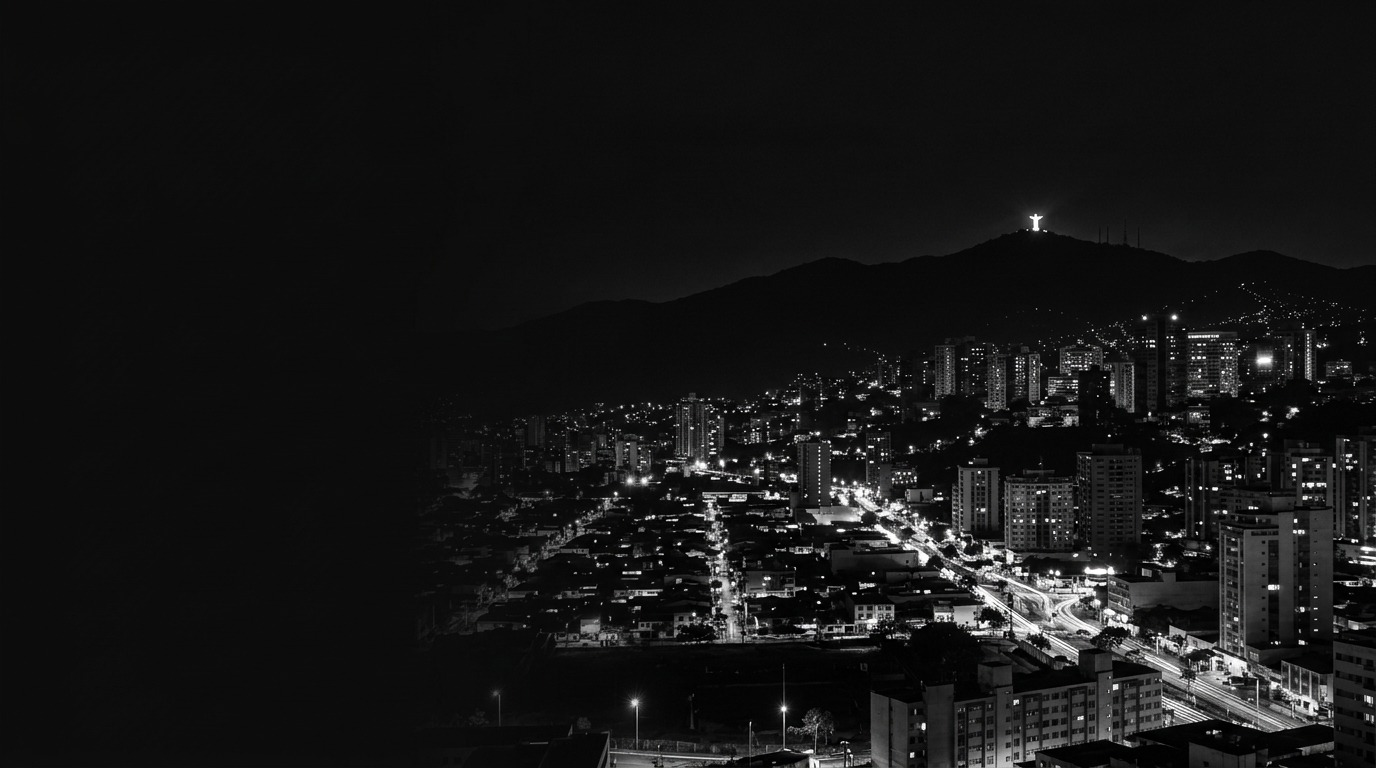
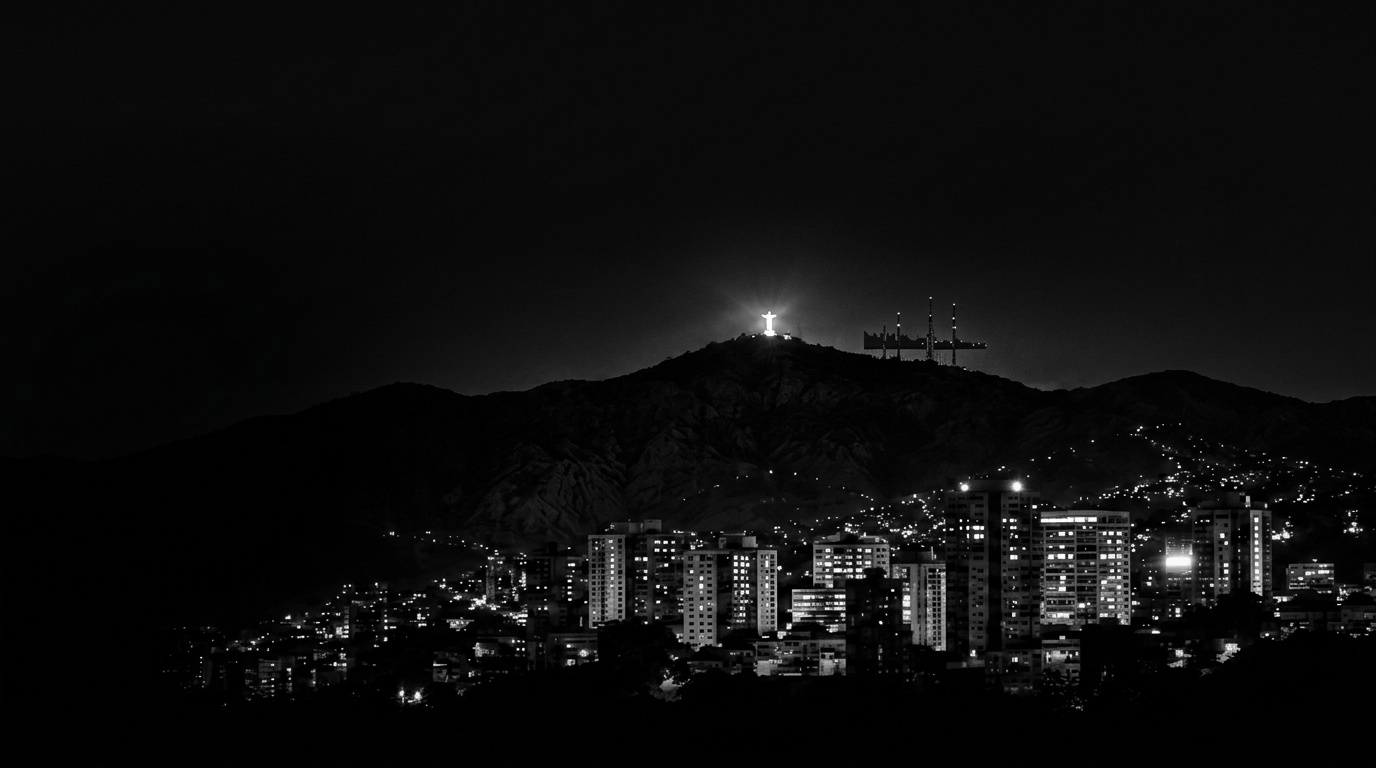
style(footer): expand layout to max-w-[1760px] with reduced side margins and exact Cristo Rey composition

diff --git a/src/components/layout/Footer.tsx b/src/components/layout/Footer.tsx
@@ -53,15 +53,16 @@ export const Footer: React.FC = () => {
       data-theme="dark"
       className="relative bg-[#111111] text-white w-full overflow-hidden select-none"
     >
-      <div className="max-w-[1400px] w-full mx-auto px-6 sm:px-12 lg:px-16 pt-16 sm:pt-20 lg:pt-24 pb-8 flex flex-col justify-between relative z-10">
+      {/* Expanded Container with reduced side margins to give monumental breathing room */}
+      <div className="w-full max-w-[1760px] mx-auto px-6 sm:px-10 lg:px-14 xl:px-16 2xl:px-20 pt-16 sm:pt-20 lg:pt-24 pb-8 flex flex-col justify-between relative z-10">
         
         {/* ========================================================
             PART 1: HERO ZONE (Split: Left Copy + Right Night City)
             ======================================================== */}
-        <div className="grid grid-cols-1 lg:grid-cols-12 gap-10 lg:gap-6 items-center pb-14 sm:pb-18 lg:pb-20">
+        <div className="flex flex-col lg:flex-row items-start lg:items-center justify-between gap-10 lg:gap-8 pb-14 sm:pb-18 lg:pb-20 relative">
           
           {/* Left: Eyebrow + Monumental Question + Subtitle + Action Pills */}
-          <div className="lg:col-span-7 flex flex-col items-start justify-center space-y-6 sm:space-y-7 z-10">
+          <div className="w-full lg:w-[48%] xl:w-[46%] 2xl:w-[45%] flex flex-col items-start justify-center space-y-6 sm:space-y-7 z-10">
             
             {/* Eyebrow */}
             <span className="text-xs font-sans tracking-[0.25em] text-white/50 uppercase font-medium">
@@ -69,8 +70,8 @@ export const Footer: React.FC = () => {
             </span>
 
             {/* Headline */}
-            <h2 className="text-3xl sm:text-5xl lg:text-[4rem] xl:text-[4.25rem] font-display font-medium text-white tracking-tight leading-[1.08] m-0">
-              {t.footer.headlineLine1.trim()}{' '}
+            <h2 className="text-3xl sm:text-5xl lg:text-[3.75rem] xl:text-[4.25rem] 2xl:text-[4.6rem] font-display font-medium text-white tracking-tight leading-[1.06] m-0">
+              {t.footer.headlineLine1}
               <br />
               {t.footer.headlineLine2}
             </h2>
@@ -116,15 +117,15 @@ export const Footer: React.FC = () => {
           </div>
 
           {/* Right: Cristo Rey & Cali Nocturnal Panorama + Orientation Line */}
-          <div className="lg:col-span-5 relative w-full h-[260px] sm:h-[320px] lg:h-[380px] xl:h-[420px] flex flex-col justify-end overflow-hidden rounded-2xl lg:rounded-none">
+          <div className="w-full lg:w-[52%] xl:w-[54%] 2xl:w-[55%] relative flex flex-col justify-end min-h-[280px] sm:min-h-[360px] lg:min-h-[440px] xl:min-h-[480px] 2xl:min-h-[520px] overflow-hidden rounded-2xl lg:rounded-none">
             
-            {/* High-Resolution B&W Night Photograph with Soft Seamless Masking into #111111 */}
+            {/* High-Resolution B&W Night Photograph Matching GPT 100% with Soft Seamless Masking */}
             <picture className="absolute inset-0 w-full h-full">
               <source type="image/webp" srcSet="/cristo-rey-cali-night.webp" />
               <img
                 src="/cristo-rey-cali-night.jpg"
                 alt="Cristo Rey y panorámica nocturna de Cali, Colombia — JP Studios"
-                className="w-full h-full object-cover object-[center_30%] select-none pointer-events-none [mask-image:linear-gradient(to_right,transparent_0%,rgba(0,0,0,0.3)_14%,rgba(0,0,0,0.85)_32%,black_52%)] [-webkit-mask-image:linear-gradient(to_right,transparent_0%,rgba(0,0,0,0.3)_14%,rgba(0,0,0,0.85)_32%,black_52%)]"
+                className="w-full h-full object-cover object-[center_35%] select-none pointer-events-none [mask-image:linear-gradient(to_right,transparent_0%,rgba(0,0,0,0.25)_10%,rgba(0,0,0,0.85)_26%,black_45%)] [-webkit-mask-image:linear-gradient(to_right,transparent_0%,rgba(0,0,0,0.25)_10%,rgba(0,0,0,0.85)_26%,black_45%)]"
                 loading="lazy"
                 decoding="async"
                 width={1376}
@@ -132,17 +133,17 @@ export const Footer: React.FC = () => {
               />
             </picture>
 
-            {/* Top and Bottom soft feathers to dissolve boundaries into #111111 */}
-            <div className="absolute inset-x-0 top-0 h-16 bg-gradient-to-b from-[#111111] via-[#111111]/60 to-transparent pointer-events-none" />
-            <div className="absolute inset-x-0 bottom-0 h-14 bg-gradient-to-t from-[#111111] via-[#111111]/80 to-transparent pointer-events-none" />
+            {/* Top and Bottom soft feathers ensuring 100% seamless blend with #111111 */}
+            <div className="absolute inset-x-0 top-0 h-16 bg-gradient-to-b from-[#111111] via-[#111111]/50 to-transparent pointer-events-none" />
+            <div className="absolute inset-x-0 bottom-0 h-16 bg-gradient-to-t from-[#111111] via-[#111111]/80 to-transparent pointer-events-none" />
 
             {/* Orientation Line Lockup Matching Mockup Baseline */}
-            <div className="relative z-10 flex items-center justify-between sm:justify-end gap-3.5 px-2 pb-1 text-xs font-sans text-white/70 select-none">
+            <div className="relative z-10 flex items-center justify-between sm:justify-end gap-3.5 px-2 pb-2 text-xs font-sans text-white/70 select-none">
               <div className="flex items-center gap-1.5 shrink-0 text-white/80">
                 <MapPin className="w-3.5 h-3.5 text-white/60" />
                 <span className="font-medium text-[11px] sm:text-xs">Cali, Colombia</span>
               </div>
-              <span className="h-px bg-white/20 flex-1 max-w-[120px] sm:max-w-[180px]" aria-hidden="true" />
+              <span className="h-px bg-white/20 flex-1 max-w-[140px] sm:max-w-[200px]" aria-hidden="true" />
               <span className="text-[9.5px] sm:text-[10px] tracking-[0.16em] uppercase text-white/45 font-sans whitespace-nowrap">
                 {t.footer.slogan}
               </span>
@@ -152,12 +153,12 @@ export const Footer: React.FC = () => {
         </div>
 
         {/* ========================================================
-            PART 2: DIRECTORY GRID (5 COLUMNS)
+            PART 2: DIRECTORY GRID (5 COLUMNS BALANCED)
             ======================================================== */}
-        <div className="border-t border-white/[0.08] pt-12 sm:pt-16 pb-12 sm:pb-16 grid grid-cols-1 sm:grid-cols-2 lg:grid-cols-12 gap-8 lg:gap-6">
+        <div className="border-t border-white/[0.08] pt-12 sm:pt-16 pb-12 sm:pb-16 grid grid-cols-1 sm:grid-cols-2 lg:grid-cols-5 gap-8 lg:gap-10 xl:gap-12">
           
-          {/* Column 1: Brand & Socials (4 cols on lg) */}
-          <div className="sm:col-span-2 lg:col-span-4 space-y-4">
+          {/* Column 1: Brand & Socials */}
+          <div className="sm:col-span-2 lg:col-span-1 space-y-4">
             <a
               href="#top"
               onClick={(e) => handleNavClick(e, '#top')}
@@ -174,7 +175,7 @@ export const Footer: React.FC = () => {
               />
             </a>
 
-            <p className="text-xs text-white/60 font-sans leading-relaxed max-w-[280px]">
+            <p className="text-xs text-white/60 font-sans leading-relaxed max-w-[260px]">
               {t.footer.brandDescription}
             </p>
 
@@ -243,11 +244,11 @@ export const Footer: React.FC = () => {
             </div>
           </div>
 
-          {/* Column 2: Navegación (2 cols on lg) */}
-          <nav aria-label={t.footer.navTitle} className="lg:col-span-2 space-y-3.5">
-            <span className="block text-xs font-semibold uppercase tracking-[0.08em] text-white">
+          {/* Column 2: Navegación */}
+          <div className="space-y-3.5">
+            <h3 className="text-xs font-semibold uppercase tracking-[0.08em] text-white">
               {t.footer.navTitle}
-            </span>
+            </h3>
             <ul className="space-y-2.5 text-xs text-white/60 font-sans">
               <li>
                 <a
@@ -290,13 +291,13 @@ export const Footer: React.FC = () => {
                 </a>
               </li>
             </ul>
-          </nav>
+          </div>
 
-          {/* Column 3: Servicios (2 cols on lg) */}
-          <nav aria-label={t.footer.servicesTitle} className="lg:col-span-2 space-y-3.5">
-            <span className="block text-xs font-semibold uppercase tracking-[0.08em] text-white">
+          {/* Column 3: Servicios */}
+          <div className="space-y-3.5">
+            <h3 className="text-xs font-semibold uppercase tracking-[0.08em] text-white">
               {t.footer.servicesTitle}
-            </span>
+            </h3>
             <ul className="space-y-2.5 text-xs text-white/60 font-sans">
               <li>
                 <a
@@ -339,13 +340,13 @@ export const Footer: React.FC = () => {
                 </a>
               </li>
             </ul>
-          </nav>
+          </div>
 
-          {/* Column 4: Recursos (2 cols on lg) */}
-          <nav aria-label={t.footer.resourcesTitle} className="lg:col-span-2 space-y-3.5">
-            <span className="block text-xs font-semibold uppercase tracking-[0.08em] text-white">
+          {/* Column 4: Recursos */}
+          <div className="space-y-3.5">
+            <h3 className="text-xs font-semibold uppercase tracking-[0.08em] text-white">
               {t.footer.resourcesTitle}
-            </span>
+            </h3>
             <ul className="space-y-2.5 text-xs text-white/60 font-sans">
               <li>
                 <a
@@ -388,13 +389,13 @@ export const Footer: React.FC = () => {
                 </a>
               </li>
             </ul>
-          </nav>
+          </div>
 
-          {/* Column 5: Ubicación (2 cols on lg) */}
-          <div className="lg:col-span-2 space-y-3.5">
-            <span className="block text-xs font-semibold uppercase tracking-[0.08em] text-white">
+          {/* Column 5: Ubicación */}
+          <div className="space-y-3.5">
+            <h3 className="text-xs font-semibold uppercase tracking-[0.08em] text-white">
               {t.footer.locationTitle}
-            </span>
+            </h3>
             
             <div className="space-y-3">
               <div className="flex items-start gap-2.5 text-xs">
